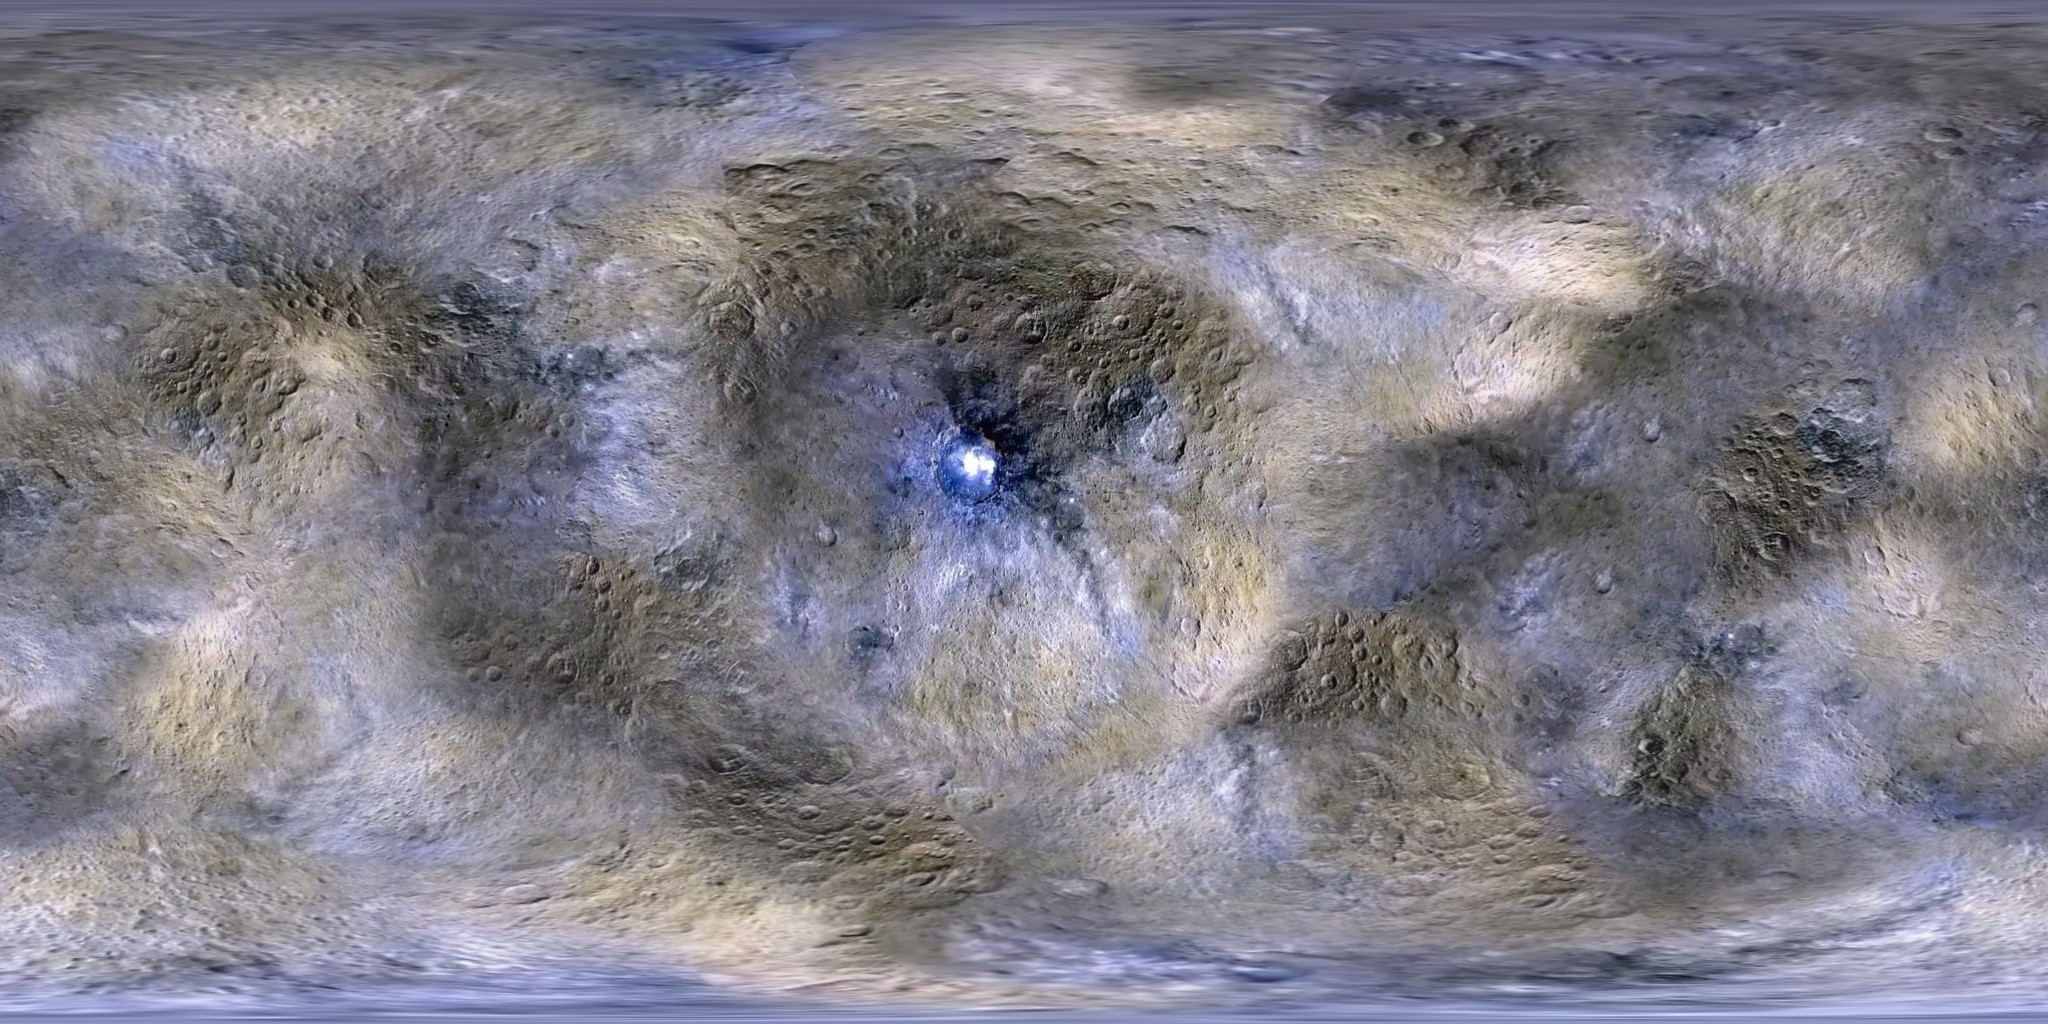
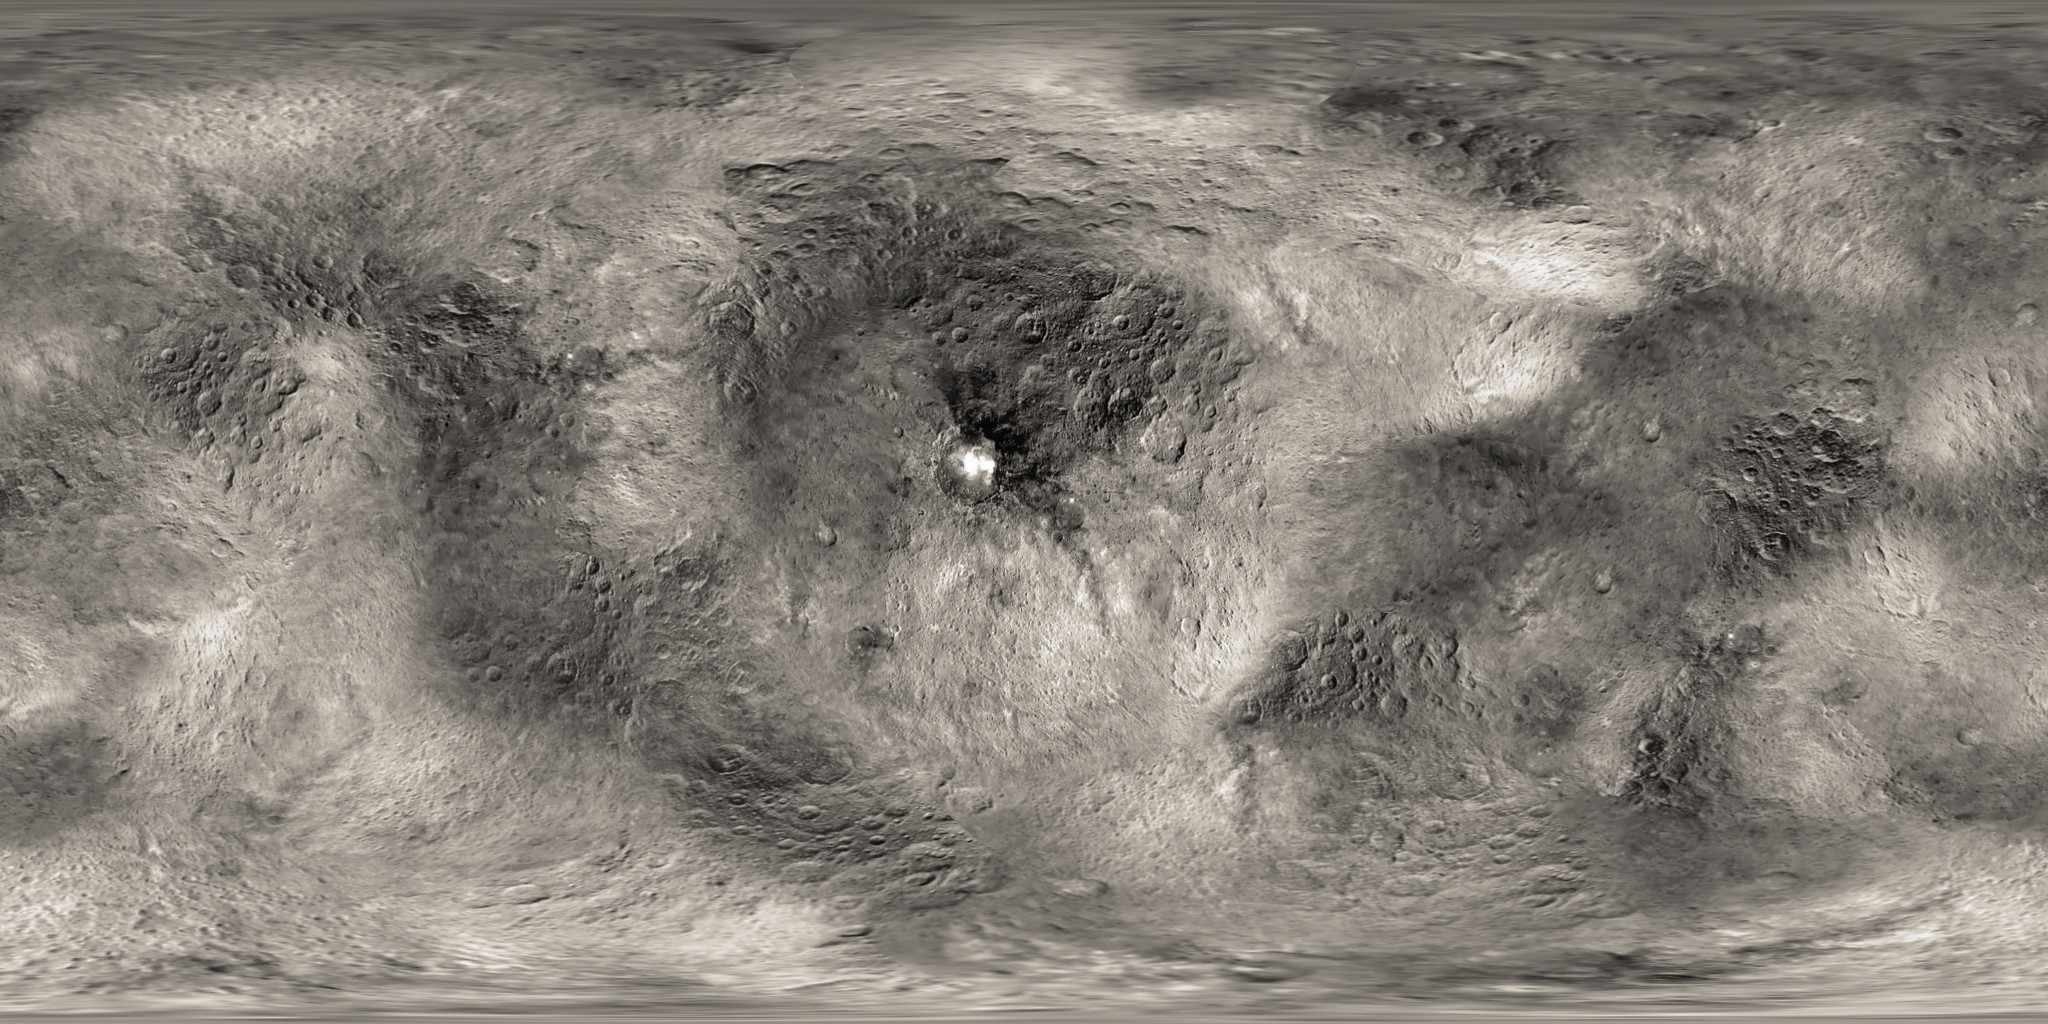
Ceres in its true grey-brown instead of false colour
Claude-Session: https://claude.ai/code/session_01V2sYW2ZoBfaGjJWEbz54fs

diff --git a/index.html b/index.html
@@ -1,5 +1,5 @@
 <!doctype html>
-<html lang="en"><head><meta charset="utf-8"><meta name="build" content="20261120-144053"><meta name="viewport" content="width=device-width, initial-scale=1"><title>Solar System Voyage</title><meta name="author" content="David Mor Ofek"><meta name="description" content="Fly around the Sun, planets, moons and asteroids at true scale, where they are right now. © 2026 David Mor Ofek"><meta property="og:title" content="Solar System Voyage"><meta property="og:description" content="Fly around the Sun, planets, moons and asteroids at true scale, where they are right now."><meta property="og:type" content="website"><meta property="og:url" content="https://solarvoyage.org/"><meta property="og:image" content="https://solarvoyage.org/preview.jpg"><meta name="twitter:image" content="https://solarvoyage.org/preview.jpg"><meta name="twitter:card" content="summary_large_image">
+<html lang="en"><head><meta charset="utf-8"><meta name="build" content="20261120-145708"><meta name="viewport" content="width=device-width, initial-scale=1"><title>Solar System Voyage</title><meta name="author" content="David Mor Ofek"><meta name="description" content="Fly around the Sun, planets, moons and asteroids at true scale, where they are right now. © 2026 David Mor Ofek"><meta property="og:title" content="Solar System Voyage"><meta property="og:description" content="Fly around the Sun, planets, moons and asteroids at true scale, where they are right now."><meta property="og:type" content="website"><meta property="og:url" content="https://solarvoyage.org/"><meta property="og:image" content="https://solarvoyage.org/preview.jpg"><meta name="twitter:image" content="https://solarvoyage.org/preview.jpg"><meta name="twitter:card" content="summary_large_image">
 <style>html, body { margin: 0; height: 100%; background: #04060c; }</style></head><body>
 <meta name="claude:viewport-fit-sides" content="cover">
 <title>Solar System Voyage</title>
